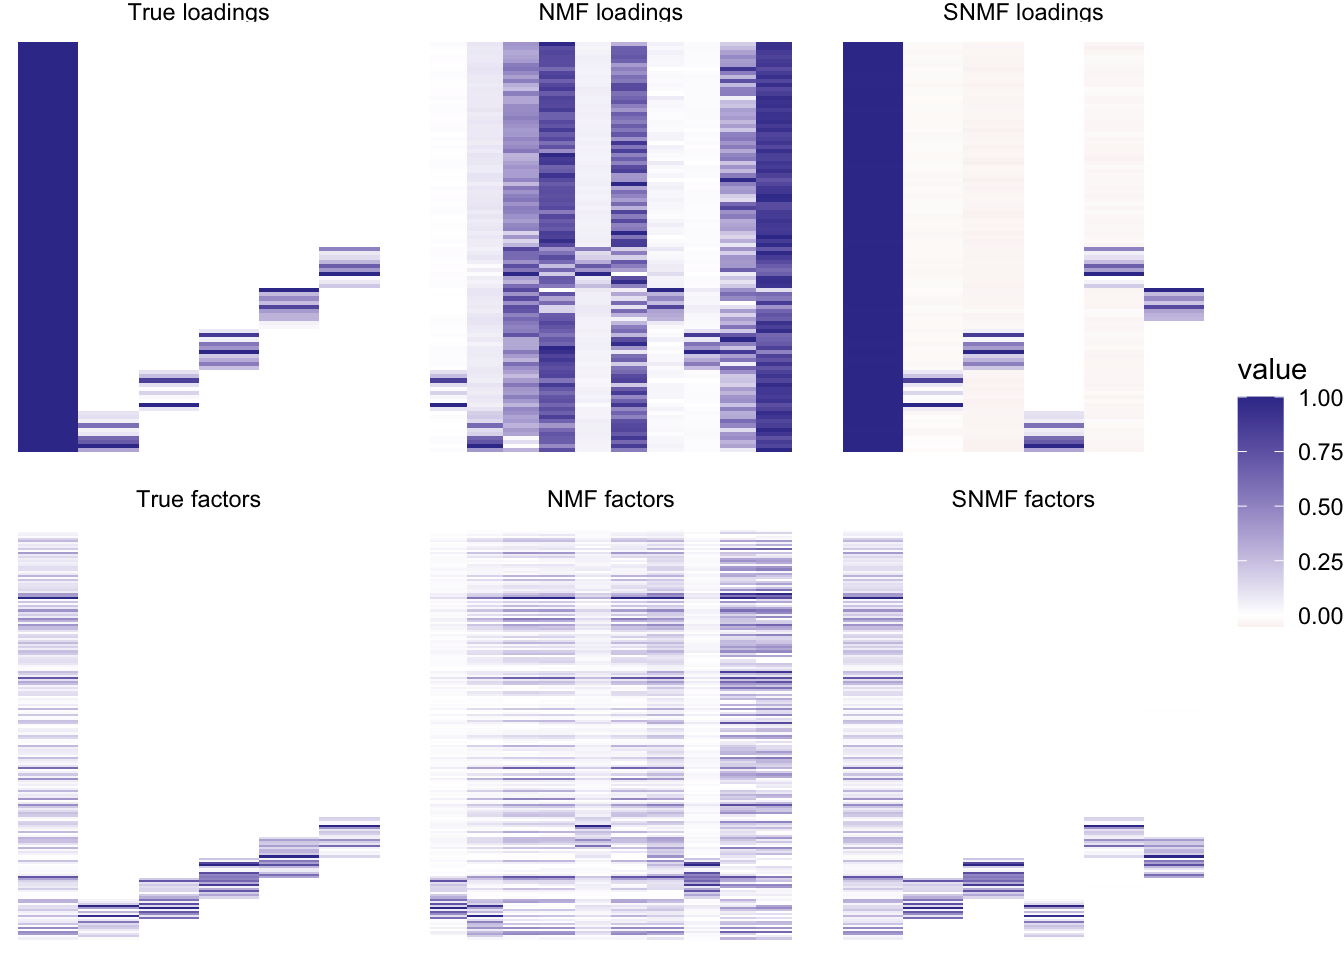
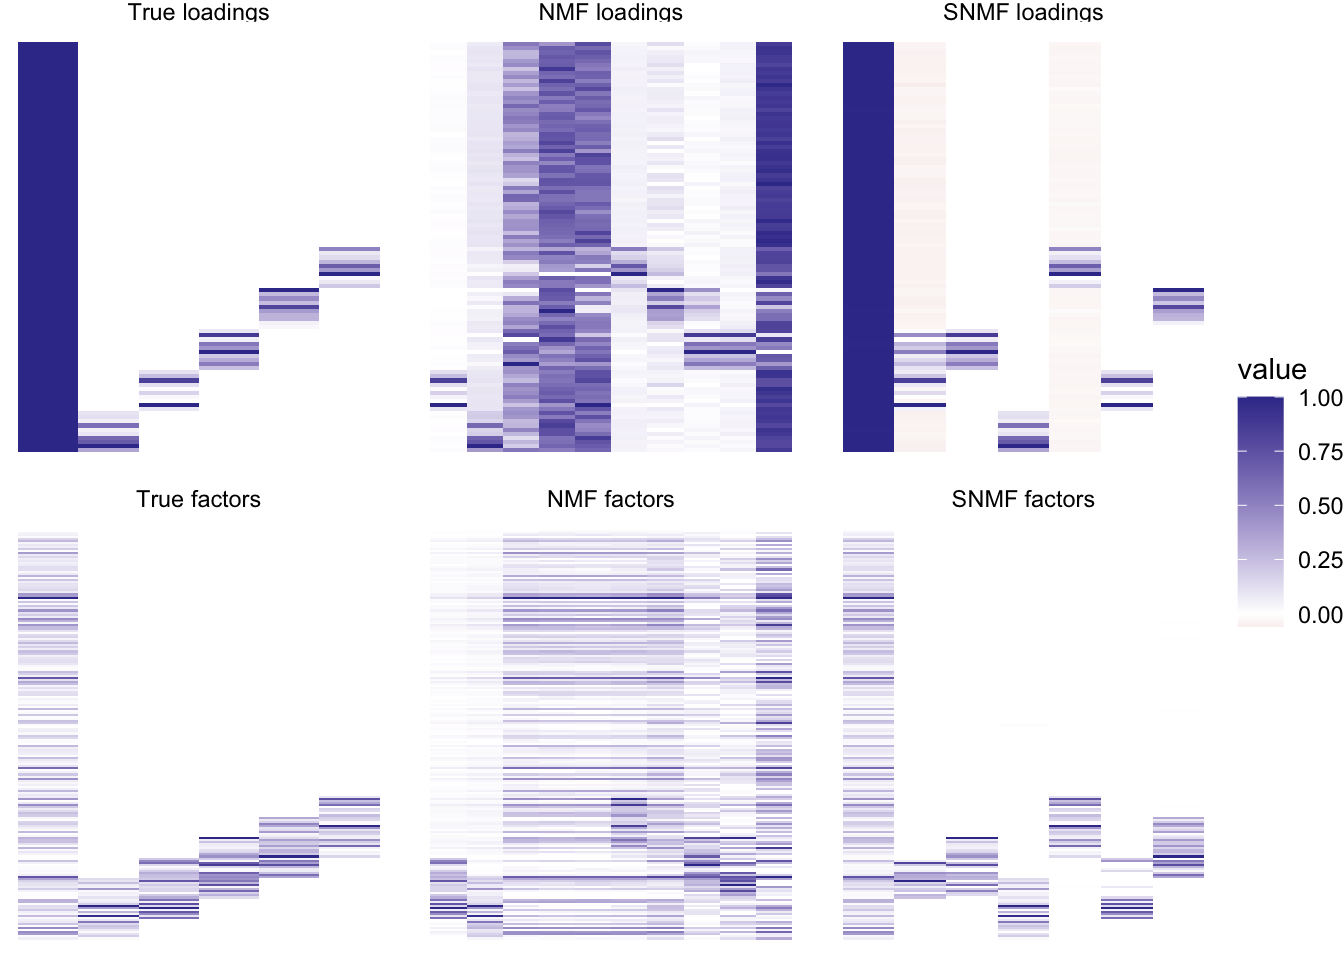
Build site.

diff --git a/docs/snmf_on_nmf.html b/docs/snmf_on_nmf.html
@@ -392,7 +392,7 @@ div.tocify {
 <div class="tab-content">
 <div id="summary" class="tab-pane fade in active">
 <p>
-<strong>Last updated:</strong> 2022-03-24
+<strong>Last updated:</strong> 2022-03-25
 </p>
 <p>
 <strong>Checks:</strong> <span class="glyphicon glyphicon-ok text-success" aria-hidden="true"></span> 7 <span class="glyphicon glyphicon-exclamation-sign text-danger" aria-hidden="true"></span> 0
@@ -483,16 +483,16 @@ This reproducible <a href="http://rmarkdown.rstudio.com">R Markdown</a> analysis
 <div class="panel panel-default">
 <div class="panel-heading">
 <p class="panel-title">
-<a data-toggle="collapse" data-parent="#workflowr-checks" href="#strongRepositoryversionstrongahrefhttpsgithubcomwillwerscheidscFLASHtree8e1587232b63e54a5036d53464e8a0134c51f3c7targetblank8e15872a"> <span class="glyphicon glyphicon-ok text-success" aria-hidden="true"></span> <strong>Repository version:</strong> <a href="https://github.com/willwerscheid/scFLASH/tree/8e1587232b63e54a5036d53464e8a0134c51f3c7" target="_blank">8e15872</a> </a>
+<a data-toggle="collapse" data-parent="#workflowr-checks" href="#strongRepositoryversionstrongahrefhttpsgithubcomwillwerscheidscFLASHtree73c4bb2cfdf412dad085d9bfeefd59b2165432ddtargetblank73c4bb2a"> <span class="glyphicon glyphicon-ok text-success" aria-hidden="true"></span> <strong>Repository version:</strong> <a href="https://github.com/willwerscheid/scFLASH/tree/73c4bb2cfdf412dad085d9bfeefd59b2165432dd" target="_blank">73c4bb2</a> </a>
 </p>
 </div>
[2 lines of base64/hex data omitted]
 <div class="panel-body">
 <p>
 Great! You are using Git for version control. Tracking code development and connecting the code version to the results is critical for reproducibility.
 </p>
 <p>
-The results in this page were generated with repository version <a href="https://github.com/willwerscheid/scFLASH/tree/8e1587232b63e54a5036d53464e8a0134c51f3c7" target="_blank">8e15872</a>. See the <em>Past versions</em> tab to see a history of the changes made to the R Markdown and HTML files.
+The results in this page were generated with repository version <a href="https://github.com/willwerscheid/scFLASH/tree/73c4bb2cfdf412dad085d9bfeefd59b2165432dd" target="_blank">73c4bb2</a>. See the <em>Past versions</em> tab to see a history of the changes made to the R Markdown and HTML files.
 </p>
 <p>
 Note that you need to be careful to ensure that all relevant files for the analysis have been committed to Git prior to generating the results (you can use <code>wflow_publish</code> or <code>wflow_git_commit</code>). workflowr only checks the R Markdown file, but you know if there are other scripts or data files that it depends on. Below is the status of the Git repository when the results were generated:
@@ -585,6 +585,40 @@ Message
 Rmd
 </td>
 <td>
+<a href="https://github.com/willwerscheid/scFLASH/blob/73c4bb2cfdf412dad085d9bfeefd59b2165432dd/analysis/snmf_on_nmf.Rmd" target="_blank">73c4bb2</a>
+</td>
+<td>
+Jason Willwerscheid
+</td>
+<td>
+2022-03-25
+</td>
+<td>
+wflow_publish(“./analysis/snmf_on_nmf.Rmd”)
+</td>
+</tr>
+<tr>
+<td>
+html
+</td>
+<td>
+<a href="https://rawcdn.githack.com/willwerscheid/scFLASH/cbf2aff84e4d423a62c0ea4d0e2658d0359b0edf/docs/snmf_on_nmf.html" target="_blank">cbf2aff</a>
+</td>
+<td>
+Jason Willwerscheid
+</td>
+<td>
+2022-03-24
+</td>
+<td>
+Build site.
+</td>
+</tr>
+<tr>
+<td>
+Rmd
+</td>
+<td>
 <a href="https://github.com/willwerscheid/scFLASH/blob/8e1587232b63e54a5036d53464e8a0134c51f3c7/analysis/snmf_on_nmf.Rmd" target="_blank">8e15872</a>
 </td>
 <td>
@@ -618,7 +652,14 @@ library(tidyverse)
 #&gt; x dplyr::lag()       masks stats::lag()
 #&gt; x purrr::set_names() masks magrittr::set_names()
 
-sim_data &lt;- function(n = 100, p = 200, K = 6, L.nn = 10, F.nn = 20, se = 0.1, seed = 666) {
+sim_data &lt;- function(n = 100, 
+                     p = 200, 
+                     K = 6, 
+                     L.nn = 10, 
+                     F.nn = 20, 
+                     se = 0.1, 
+                     K.dense = 1, 
+                     seed = 666) {
   set.seed(seed)
   
   LL &lt;- matrix(rexp(n * K), nrow = n, ncol = K)
@@ -628,9 +669,9 @@ sim_data &lt;- function(n = 100, p = 200, K = 6, L.nn = 10, F.nn = 20, se = 0.1,
   LL[, 1] &lt;- 3
   
   # Additional sparse nonnegative factors.
-  for (k in 2:K) {
-    L.nn.idx &lt;- seq((k - 2) * L.nn + 1, (k - 1) * L.nn)
-    F.nn.idx &lt;- seq((k - 2) * (F.nn / 2) + 1, k * (F.nn / 2))
+  for (k in (K.dense + 1):K) {
+    L.nn.idx &lt;- seq((k - K.dense - 1) * L.nn + 1, (k - K.dense) * L.nn)
+    F.nn.idx &lt;- seq((k - K.dense - 1) * (F.nn / 2) + 1, (k + K.dense) * (F.nn / 2))
     LL[setdiff(1:n, L.nn.idx), k] &lt;- 0
     FF[setdiff(1:p, F.nn.idx), k] &lt;- 0
   }
@@ -657,19 +698,28 @@ plot_it &lt;- function(simdat, nnmf_res, snmf_res) {
     )
   }
   
-  suppressMessages(
+  
+  suppressMessages({
     tib &lt;- to_tibble(simdat$LL, &quot;True loadings&quot;) %&gt;%
       bind_rows(to_tibble(simdat$FF, &quot;True factors&quot;)) %&gt;%
-      bind_rows(to_tibble(nnmf_res$W, &quot;NMF loadings&quot;)) %&gt;%
-      bind_rows(to_tibble(t(nnmf_res$H), &quot;NMF factors&quot;)) %&gt;%
       bind_rows(to_tibble(snmf_res$L.pm, &quot;SNMF loadings&quot;)) %&gt;%
-      bind_rows(to_tibble(snmf_res$F.pm, &quot;SNMF factors&quot;)) %&gt;%
+      bind_rows(to_tibble(snmf_res$F.pm, &quot;SNMF factors&quot;)) 
+    if (inherits(nnmf_res, &quot;flash&quot;)) {
+      tib &lt;- tib %&gt;%
+        bind_rows(to_tibble(nnmf_res$L.pm, &quot;NMF loadings&quot;)) %&gt;%
+        bind_rows(to_tibble(nnmf_res$F.pm, &quot;NMF factors&quot;)) 
+    } else {
+      tib &lt;- tib %&gt;%
+        bind_rows(to_tibble(nnmf_res$W, &quot;NMF loadings&quot;)) %&gt;%
+        bind_rows(to_tibble(t(nnmf_res$H), &quot;NMF factors&quot;)) 
+    }
+    tib &lt;- tib %&gt;%
       mutate(k = as.numeric(str_remove_all(k, &quot;\\.&quot;))) %&gt;%
       mutate(type = factor(type, levels = c(
         &quot;True loadings&quot;, &quot;NMF loadings&quot;, &quot;SNMF loadings&quot;,
         &quot;True factors&quot;, &quot;NMF factors&quot;, &quot;SNMF factors&quot;
       )))
-  )
+  })
   
   ggplot(tib, aes(x = k, y = row, fill = value)) +
     geom_tile() +
@@ -694,7 +744,44 @@ snmf_res1 &lt;- flash.init(sim1$Y) %&gt;%
 
 plot_it(sim1, nnmf_res1, snmf_res1)</code></pre>
 <p><img src="figure/snmf_on_nmf.Rmd/sim1_trueK-1.png" width="672" style="display: block; margin: auto;" /></p>
-<p>Not only is the SNMF basically nonnegative, but it does a better job recovering the true factors than NMF!</p>
+<p>
+<button type="button" class="btn btn-default btn-xs btn-workflowr btn-workflowr-fig" data-toggle="collapse" data-target="#fig-sim1_trueK-1">
+Past versions of sim1_trueK-1.png
+</button>
+</p>
+<div id="fig-sim1_trueK-1" class="collapse">
+<div class="table-responsive">
+<table class="table table-condensed table-hover">
+<thead>
+<tr>
+<th>
+Version
+</th>
+<th>
+Author
+</th>
+<th>
+Date
+</th>
+</tr>
+</thead>
+<tbody>
+<tr>
+<td>
+<a href="https://github.com/willwerscheid/scFLASH/blob/cbf2aff84e4d423a62c0ea4d0e2658d0359b0edf/docs/figure/snmf_on_nmf.Rmd/sim1_trueK-1.png" target="_blank">cbf2aff</a>
+</td>
+<td>
+Jason Willwerscheid
+</td>
+<td>
+2022-03-24
+</td>
+</tr>
+</tbody>
+</table>
+</div>
+</div>
+<p>Not only is SNMF basically nonnegative, but it does a better job recovering the true factors than NMF!</p>
 <p>Next I fit NMF and SNMF using more factors than necessary:</p>
 <pre class="r"><code>nnmf_res1b &lt;- NNLM::nnmf(sim1$Y, k = 10, verbose = 0)
 snmf_res1b &lt;- flash.init(sim1$Y) %&gt;%
@@ -709,15 +796,70 @@ snmf_res1b &lt;- flash.init(sim1$Y) %&gt;%
 
 plot_it(sim1, nnmf_res1b, snmf_res1b)</code></pre>
 <p><img src="figure/snmf_on_nmf.Rmd/sim1_nottrueK-1.png" width="672" style="display: block; margin: auto;" /></p>
-<p>The SNMF recovers the correct number of factors, which NMF is of course unable to do.</p>
-<p>Finally I make the simulation scenario a bit more difficult (more noise, less sparsity) and try again with the correct number of factors:</p>
-<pre class="r"><code>sim2 &lt;- sim_data(K = 6, se = 1, L.nn = 20, F.nn = 40)
+<p>
+<button type="button" class="btn btn-default btn-xs btn-workflowr btn-workflowr-fig" data-toggle="collapse" data-target="#fig-sim1_nottrueK-1">
+Past versions of sim1_nottrueK-1.png
+</button>
+</p>
+<div id="fig-sim1_nottrueK-1" class="collapse">
+<div class="table-responsive">
+<table class="table table-condensed table-hover">
+<thead>
+<tr>
+<th>
+Version
+</th>
+<th>
+Author
+</th>
+<th>
+Date
+</th>
+</tr>
+</thead>
+<tbody>
+<tr>
+<td>
+<a href="https://github.com/willwerscheid/scFLASH/blob/cbf2aff84e4d423a62c0ea4d0e2658d0359b0edf/docs/figure/snmf_on_nmf.Rmd/sim1_nottrueK-1.png" target="_blank">cbf2aff</a>
+</td>
+<td>
+Jason Willwerscheid
+</td>
+<td>
+2022-03-24
+</td>
+</tr>
+</tbody>
+</table>
+</div>
+</div>
+<p>SNMF (almost) recovers the correct number of factors, which NMF is of course unable to do. If, however, I initialize EBMF using the NMF fit and then backfit using point-exponential priors, I get a better NMF fit:</p>
+<pre class="r"><code>nnmf_res1c &lt;- flash.init(sim1$Y) %&gt;%
+  flash.set.verbose(0) %&gt;%
+  flash.init.factors(
+    list(nnmf_res1b$W, t(nnmf_res1b$H)),
+    ebnm.fn = ebnm::ebnm_point_exponential
+  ) %&gt;%
+  flash.backfit(maxiter = 200) %&gt;%
+  flash.nullcheck() %&gt;%
+  flash.backfit() %&gt;%
+  flash.nullcheck()
+#&gt; Warning in report.maxiter.reached(verbose.lvl): Maximum number of iterations
+#&gt; reached.
 
-nnmf_res2 &lt;- NNLM::nnmf(sim2$Y, k = 6, verbose = 0)
+#&gt; Warning in report.maxiter.reached(verbose.lvl): Maximum number of iterations
+#&gt; reached.
+
+plot_it(sim1, nnmf_res1c, snmf_res1b)</code></pre>
+<p><img src="figure/snmf_on_nmf.Rmd/sim1_nnebmf-1.png" width="672" style="display: block; margin: auto;" /></p>
+<p>Finally I make the simulation scenario a bit more difficult (more noise, less sparsity, additional dense factors) and try again with the correct number of factors:</p>
+<pre class="r"><code>sim2 &lt;- sim_data(K = 8, se = 1, L.nn = 20, F.nn = 40, K.dense = 3)
+
+nnmf_res2 &lt;- NNLM::nnmf(sim2$Y, k = 8, verbose = 0)
 snmf_res2 &lt;- flash.init(sim2$Y) %&gt;%
   flash.set.verbose(0) %&gt;%
   flash.add.greedy(
-    Kmax = 6,
+    Kmax = 8,
     ebnm.fn = c(ebnm::ebnm_point_normal, ebnm::ebnm_point_exponential),
     init.fn = function(fl) init.fn.default(fl, dim.signs = c(0, 1))
   ) %&gt;%
@@ -726,7 +868,44 @@ snmf_res2 &lt;- flash.init(sim2$Y) %&gt;%
 
 plot_it(sim2, nnmf_res2, snmf_res2)</code></pre>
 <p><img src="figure/snmf_on_nmf.Rmd/sim2-1.png" width="672" style="display: block; margin: auto;" /></p>
-<p>SNMF again does quite a bit better!</p>
+<p>
+<button type="button" class="btn btn-default btn-xs btn-workflowr btn-workflowr-fig" data-toggle="collapse" data-target="#fig-sim2-1">
+Past versions of sim2-1.png
+</button>
+</p>
+<div id="fig-sim2-1" class="collapse">
+<div class="table-responsive">
+<table class="table table-condensed table-hover">
+<thead>
+<tr>
+<th>
+Version
+</th>
+<th>
+Author
+</th>
+<th>
+Date
+</th>
+</tr>
+</thead>
+<tbody>
+<tr>
+<td>
+<a href="https://github.com/willwerscheid/scFLASH/blob/cbf2aff84e4d423a62c0ea4d0e2658d0359b0edf/docs/figure/snmf_on_nmf.Rmd/sim2-1.png" target="_blank">cbf2aff</a>
+</td>
+<td>
+Jason Willwerscheid
+</td>
+<td>
+2022-03-24
+</td>
+</tr>
+</tbody>
+</table>
+</div>
+</div>
+<p>SNMF again does quite a bit better on the sparse factors, but the dense factors now show a mixture of positive and negative loadings.</p>
 <br>
 <p>
 <button type="button" class="btn btn-default btn-workflowr btn-workflowr-sessioninfo" data-toggle="collapse" data-target="#workflowr-sessioninfo" style="display: block;">
@@ -772,7 +951,7 @@ plot_it(sim2, nnmf_res2, snmf_res2)</code></pre>
 #&gt; [57] hms_1.1.1         knitr_1.33        pillar_1.7.0      softImpute_1.4-1 
 #&gt; [61] reprex_2.0.0      glue_1.6.2        evaluate_0.14     trust_0.1-8      
 #&gt; [65] modelr_0.1.8      vctrs_0.3.8       tzdb_0.1.1        httpuv_1.5.2     
-#&gt; [69] cellranger_1.1.0  gtable_0.3.0      ebnm_1.0-8        assertthat_0.2.1 
+#&gt; [69] cellranger_1.1.0  gtable_0.3.0      ebnm_1.0-11       assertthat_0.2.1 
 #&gt; [73] ashr_2.2-54       xfun_0.29         broom_0.7.6       NNLM_0.4.2       
 #&gt; [77] later_1.3.0       truncnorm_1.0-8   ellipsis_0.3.2</code></pre>
 </div>
